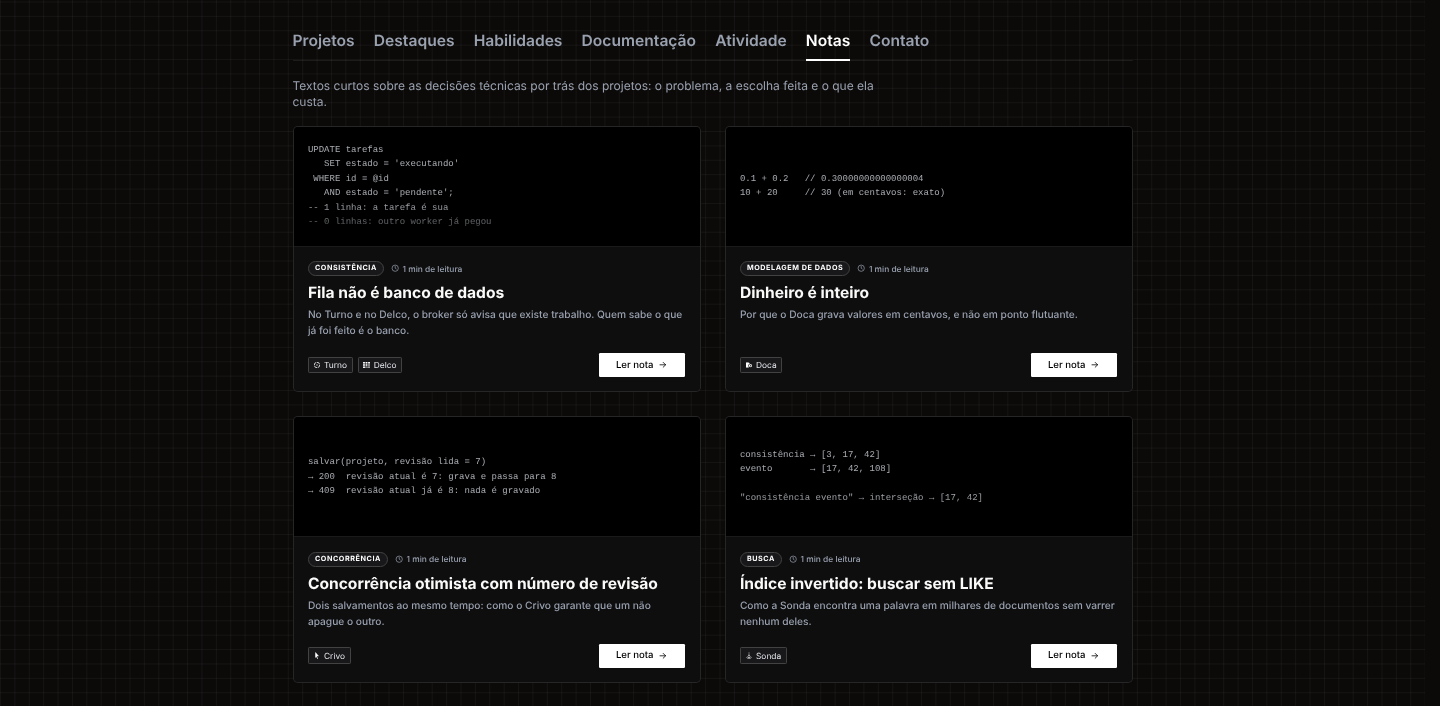
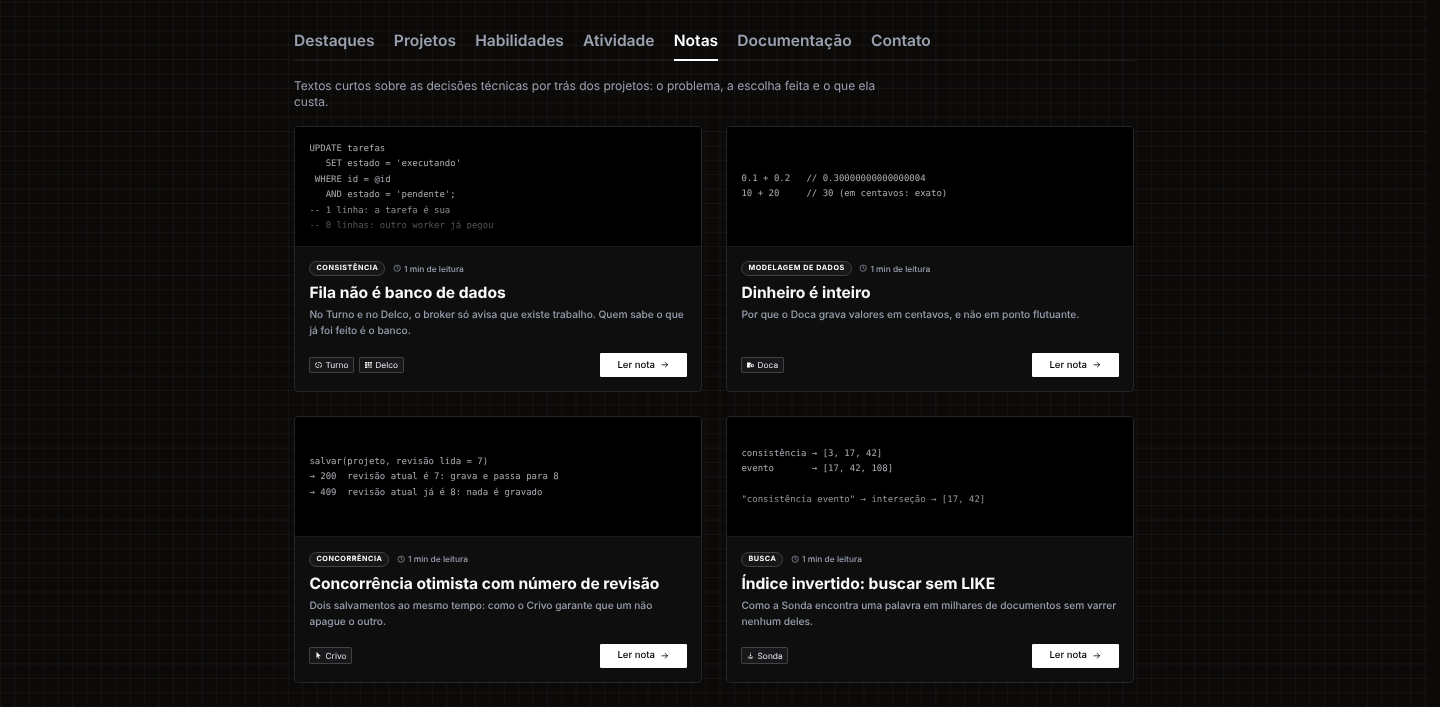
Atualização do README

diff --git a/README.md b/README.md
@@ -6,7 +6,7 @@
 
 <p align="center">
 Meu portfólio técnico: quem eu sou, o que estudo e os sistemas que construí do zero, com foco em arquitetura, escalabilidade e consistência de dados, reunidos em uma página só.<br>
-Feito com HTML5, CSS e JavaScript puros: sem framework, sem build e sem dependências.
+Feito com HTML5, CSS e JavaScript puros: sem framework, sem build e sem dependências. A aba Atividade busca dados ao vivo na API pública do GitHub.
 </p>
 
 <p align="center">
@@ -20,43 +20,50 @@ HTML5 · CSS3 · JavaScript (ES6+) · API do GitHub · Responsivo · Zero depend
 ---
 
 <p align="center">
-  <img src="assets/preview-portfolio.png?v=24" alt="Prévia do portfólio na aba Projetos: apresentação com selo de disponibilidade, terminal, abas, filtros por linguagem e a primeira fileira de projetos">
+  <img src="assets/preview-portfolio.png?v=25" alt="Prévia do portfólio na aba Projetos: apresentação com selo de disponibilidade, terminal do Ravel OS 1.42.0, abas, filtros por linguagem com os 16 projetos e a primeira fileira de cartões">
 </p>
 
 <p align="center"><b>Aba Destaques</b></p>
 
 <p align="center">
-  <img src="assets/preview-portfolio-destaques.png?v=6" alt="Prévia da aba Destaques: atalhos dos seis projetos, cabeçalho do Crivo e a tela principal numa janela">
+  <img src="assets/preview-portfolio-destaques.png?v=7" alt="Prévia da aba Destaques: atalhos dos seis projetos com categoria e versão, cabeçalho do Crivo e o Estúdio de jogo numa janela">
 </p>
 
 <p align="center"><b>Tema claro, na aba Habilidades</b></p>
 
 <p align="center">
-  <img src="assets/preview-portfolio-claro.png?v=28" alt="Prévia do portfólio no tema claro, na aba Habilidades">
+  <img src="assets/preview-portfolio-claro.png?v=29" alt="Prévia do portfólio no tema claro, na aba Habilidades">
+</p>
+
+<p align="center"><b>Aba Atividade</b></p>
+
+<p align="center">
+  <img src="assets/preview-portfolio-atividade.png?v=4" alt="Prévia da aba Atividade: botões de ano, gráfico de contribuições de 2026, cidade de contribuições, linguagens mais usadas e repositórios recentes">
 </p>
 
 <p align="center"><b>Aba Notas</b></p>
 
 <p align="center">
-  <img src="assets/preview-portfolio-notas.png?v=8" alt="Prévia da aba Notas, com as notas em duas colunas e a vitrine de código de cada uma">
+  <img src="assets/preview-portfolio-notas.png?v=9" alt="Prévia da aba Notas, com as notas em duas colunas e a vitrine de código de cada uma">
 </p>
 
 <p align="center"><b>Aba Documentação</b></p>
 
 <p align="center">
-  <img src="assets/preview-portfolio-documentacao.png?v=10" alt="Prévia da aba Documentação, com o diagrama do banco e a decisão de arquitetura dos primeiros projetos">
+  <img src="assets/preview-portfolio-documentacao.png?v=11" alt="Prévia da aba Documentação, com o diagrama do banco e a decisão de arquitetura dos primeiros projetos">
 </p>
 
 ## O que tem na página
 
 - **Topo fixo** com o ícone de computador e o nome **ravel** digitado letra por letra e cursor piscando (um clique volta ao início), que ganha fundo desfocado ao rolar a página. À direita ficam o atalho para o **GitHub**, o botão **Contato**, que abre a aba Contato de qualquer ponto da página, e o botão de tema.
-- **Tema claro e escuro**: o botão redondo no canto superior direito (☀ sol / ☾ lua) troca a página entre o tema escuro (padrão) e o claro, inspirado em **desenho técnico de engenharia**: fundo de papel com quadriculado bem fraco, texto e destaques em grafite, a mesma linguagem dos diagramas dos PDFs. A paleta é Papel `#E8ECEA` (fundo, etiquetas e barra do terminal), Folha `#F6F8F7` (cartões e corpo do terminal), Linha `#B9C4C2` (bordas), Ardósia `#46535A` (textos de apoio, abas fechadas e botões ao passar o mouse) e Grafite `#20282D` (títulos, textos, botões, aba aberta, cursor do título, prompt do terminal, quadriculado, traço dos diagramas na aba Documentação). Os três botões coloridos do terminal continuam como no tema escuro. O tema escuro usa o mesmo quadriculado de engenharia no fundo, em linhas brancas bem fracas. A escolha fica salva no navegador e volta na próxima visita, sem piscar o tema errado ao carregar.
+- **Tema claro e escuro**: o botão redondo no canto superior direito (☀ sol / ☾ lua) troca a página entre o tema escuro (padrão) e o claro, inspirado em **desenho técnico de engenharia**: fundo de papel com quadriculado bem fraco, texto e destaques em grafite, a mesma linguagem dos diagramas dos PDFs. A paleta é Papel `#E8ECEA` (fundo, etiquetas e barra do terminal), Folha `#F6F8F7` (cartões e corpo do terminal), Linha `#B9C4C2` (bordas), Ardósia `#46535A` (textos de apoio, abas fechadas e botões ao passar o mouse) e Grafite `#20282D` (títulos, textos, botões, aba aberta, cursor do título, prompt do terminal, quadriculado, traço dos diagramas na aba Documentação e barras de linguagens). O gráfico de contribuições e a cidade da aba Atividade vão do papel ao grafite, passando por Linha e Ardósia. Os três botões coloridos do terminal continuam como no tema escuro. O tema escuro usa o mesmo quadriculado de engenharia no fundo, em linhas brancas bem fracas. A escolha fica salva no navegador e volta na próxima visita, sem piscar o tema errado ao carregar.
 - **Apresentação** pensada para quem está contratando: o selo **Disponível para novas oportunidades** (com um pulso curto no ponto verde ao carregar), o nome em tamanho grande, o cargo (*Engenheiro de Software*), um parágrafo sobre o que eu construo, os botões **Ver projetos** e **Entrar em contato** e, embaixo, o GitHub, o e-mail (um clique copia o endereço e o botão mostra *E-mail copiado*) e a localização.
 - **Terminal `root@ravel:~$`** com o `ravel --info` do Ravel OS: o que priorizo e as áreas em que atuo, com base nos meus projetos. A primeira linha mostra a versão atual do portfólio (*Ravel OS [Version 1.42.0]*), a mesma do arquivo `VERSION`.
 - **Sete abas: Destaques, Projetos, Habilidades, Atividade, Notas, Documentação e Contato**: as seções ficam em abas separadas na mesma página, com sublinhado animado na aba ativa. Ao rolar a página, a fileira de abas **fica presa logo abaixo do topo**, com o mesmo fundo desfocado, e trocar de aba lá embaixo leva ao começo da nova aba. Dá para trocar com o mouse ou pelas setas do teclado, e a página sempre abre na aba Destaques, a não ser que o link já aponte para outra: `ravelroot.github.io/#contato`, `#destaques`, `#habilidades` e assim por diante abrem direto na aba (o endereço volta ao normal em seguida). No celular, a fileira de abas rola para o lado, a aba ativa sempre fica à vista e a borda some aos poucos do lado em que ainda há abas.
-  - **Projetos** em cartões com **vitrine no estilo do terminal**: o caminho do repositório no GitHub, a linguagem principal e o ícone do projeto em tamanho grande sobre um pontilhado. Abaixo vêm a categoria em destaque (por exemplo, *Pagamentos e checkout*), o nome, a descrição, as etiquetas de tecnologias e os botões **Código no GitHub** (repositório) e **Manual técnico** (PDF, nos projetos que têm). São meus principais repositórios públicos, de pagamentos e microsserviços a um banco de dados em C++. Os projetos que também estão na aba Destaques (Crivo, Grafo, Nexo, Talos, Bento e Turno) trazem, ao lado da categoria, a etiqueta **Estudo de caso**, que leva direto ao projeto lá; o Crivo e o Grafo, que têm versão no navegador, abrem também com o botão **Abrir demo**. Acima da grade ficam os **filtros por linguagem** (Todos, Python, TypeScript, JavaScript, Java, C#, C++, Go, C e Rust, com o número de projetos em cada um), montados sozinhos a partir das tecnologias; ao filtrar, a etiqueta da linguagem escolhida fica realçada em cada cartão e o contador mostra quantos projetos aparecem. Os cartões **entram um a um** quando surgem na tela (e de novo a cada filtro). Ao passar o mouse, uma luz suave acompanha o cursor, o pontilhado se acende em volta dele, o ícone ganha um leve brilho, e um cursor pisca ao lado do repositório; o cartão não cresce, para o texto continuar nítido. Tudo respeita `prefers-reduced-motion`.
+  - **Projetos** em cartões com **vitrine no estilo do terminal**: o caminho do repositório no GitHub, a linguagem principal e o ícone do projeto em tamanho grande sobre um pontilhado. Abaixo vêm a categoria em destaque (por exemplo, *Pagamentos e checkout*), o nome, a descrição, as etiquetas de tecnologias e os botões **Código no GitHub** (repositório) e **Manual técnico** (PDF, nos projetos que têm). São meus principais repositórios públicos, de pagamentos e microsserviços a um banco de dados em C++. Os projetos que também estão na aba Destaques (Crivo, Grafo, Nexo, Talos, Bento e Turno) trazem, ao lado da categoria, a etiqueta **Estudo de caso**, que leva direto ao projeto lá; o Crivo e o Grafo, que têm versão no navegador, abrem também com o botão **Abrir demo**. Acima da grade ficam os **filtros por linguagem** (Todos, Python, TypeScript, Java, JavaScript, C#, C++, Go, C e Rust, com o número de projetos em cada um), montados sozinhos a partir das tecnologias; ao filtrar, a etiqueta da linguagem escolhida fica realçada em cada cartão e o contador mostra quantos projetos aparecem. Os cartões **entram um a um** quando surgem na tela (e de novo a cada filtro). Ao passar o mouse, uma luz suave acompanha o cursor, o pontilhado se acende em volta dele, o ícone ganha um leve brilho, e um cursor pisca ao lado do repositório; o cartão não cresce, para o texto continuar nítido. Tudo respeita `prefers-reduced-motion`.
   - **Destaques**: o **Crivo**, o **Grafo**, o **Nexo**, o **Talos**, o **Bento** e o **Turno** apresentados em detalhe, um depois do outro. No topo, um atalho para cada um (ícone, categoria e versão) rola até ele, em três colunas no computador e duas no tablet (quando sobra um, ele ocupa a fileira inteira). Cada projeto abre com a posição (*Destaque 01 / 06*), a categoria, a versão, o nome em tamanho grande, uma frase que resume o projeto e os botões **Abrir no navegador** (no Crivo e no Grafo, que têm versão no GitHub Pages), **Código no GitHub**, **Manual técnico** e **Arquitetura do BD** (quando o projeto tem o PDF do banco). Depois vêm: a **tela principal numa janela** com a barra do terminal e o endereço do projeto (a versão online, o servidor local ou o instalador do Windows), que **acompanha o tema da página** (tela escura no tema escuro, clara no claro); **quatro números** (por exemplo, *301 testes, todos passando*, *37 KB de núcleo em WebAssembly* e *600 mil iterações de PBKDF2 por senha*); **A ideia**, em três parágrafos, ao lado das **tecnologias** agrupadas; uma **galeria** com legenda (nove telas no Talos e no Bento, onze no Nexo, catorze no Grafo, quinze no Crivo e cinco no Turno); **Por dentro**, com as decisões de engenharia numeradas (oito no Crivo, no Grafo, no Nexo e no Talos e seis no Bento e no Turno) (algumas com um trecho no estilo do terminal, como o RLE do Crivo, os modelos do Grafo em duas linhas, os cortes de relevância e o streaming do Nexo, a matriz de prioridade e a mescla do Talos, o LISTEN/NOTIFY do Bento e o token de despacho do Turno); a **arquitetura** desenhada num terminal; e a tabela de **testes e verificações** com os resultados da última rodada de cada projeto. Um clique na tela principal ou em qualquer foto abre o **visualizador**: a imagem quase em tela cheia, com legenda, posição (*04 / 10*), botões e setas do teclado para passar (ele dá a volta no fim), deslize no celular, Esc ou clique fora para fechar e o foco de volta na foto. A aba termina com **Seis projetos, as mesmas regras** (começam com dois cliques, testados a cada push, fechados por padrão e feitos para quem chega), a contagem dos projetos que ficaram de fora e um botão que volta para a aba Projetos. O Bento, que não está na aba Documentação, leva os PDFs no próprio destaque. Os blocos sobem e aparecem conforme a página rola, e tudo respeita `prefers-reduced-motion`.
   - **Habilidades** organizadas por área (Front-end, Back-end, Bancos de Dados, IA & LLMs e Ferramentas), em cartões com um ícone para cada área, o número de itens e etiquetas agrupadas. IA & LLMs se divide em Arquitetura RAG e Modelos e protocolos; Ferramentas, em DevOps e infraestrutura, APIs, Desenvolvimento e Produtividade. Qualquer etiqueta se destaca ao passar o mouse (borda e texto acesos, com o cursor de clique), sem levar a outra aba. Acima dos cartões, os botões **Todas** e **Usadas nos projetos** deixam as demais etiquetas apagadas. Os cartões entram um a um ao aparecer na tela, as etiquetas acendem em cascata e uma luz suave acompanha o mouse.
+  - **Atividade**: dados ao vivo do GitHub, buscados só quando a aba é aberta. O cartão **Contribuições** abre no **ano atual**, de 1º de janeiro até hoje, e tem um botão para cada ano desde **2016** (**2026 · 2025 · … · 2016**; um botão novo aparece sozinho a cada virada de ano). Os anos sem nenhum commit aparecem com o calendário inteiro vazio, e os anos anteriores à criação da conta nem gastam consulta à API. Para cada ano, mostra o total de contribuições, os dias com contribuições, a maior sequência de dias seguidos e o número de repositórios públicos, com o **gráfico de contribuições** (o mesmo calendário do perfil, em tons neutros que acompanham o tema); no ano em andamento, os dias que ainda não chegaram aparecem vazados, a nota abaixo do gráfico diz o período exato e, com a aba aberta, o ano atual se atualiza sozinho a cada 5 minutos. Logo abaixo, a **cidade de contribuições** desenha o mesmo ano em 3D isométrico: um prédio por dia, mais alto quanto mais contribuições, com janelas acesas nos dias mais fortes e o dia mais ativo marcado no alto do prédio. Ao lado ficam o total, os dias ativos, o dia mais ativo, a sequência atual (*Sequência no fim do ano* nos anos que já acabaram), a maior sequência e o mês mais ativo, e a cidade muda junto com o botão de ano. Por fim, as **linguagens mais usadas** pela soma do código de todos os repositórios (as oito maiores e *Outras*) e os **cinco repositórios que receberam commits por último**, com o ícone e o nome do projeto quando ele está no portfólio. Passar o mouse sobre um dia, um prédio ou uma linguagem mostra os detalhes, e o rodapé diz a hora da última atualização.
   - **Notas**: textos curtos sobre as decisões técnicas por trás dos projetos (o problema, a escolha feita e o que ela custa), em **duas colunas** no computador e uma no celular. Cada cartão abre com uma vitrine no estilo do terminal, com o bloco de código da própria nota (ou uma frase dela, quando a nota não tem código), seguida do tema em destaque, do tempo de leitura (calculado pelo número de palavras), do título, de um resumo e das etiquetas dos projetos citados, com ícone e link para o repositório. Ao passar o mouse, uma luz suave acompanha o cursor, o código sobe um pouco e a seta do botão avança. Quando o número de notas é ímpar, a última ocupa a fileira inteira, com a vitrine ao lado do texto. O botão **Ler nota** (ou um clique na vitrine) abre a nota inteira num painel por cima da página, com a posição dela no topo (por exemplo, 07 / 08), com blocos de código quando ajudam a explicar e os botões **Anterior** e **Próxima** para seguir lendo. O painel fecha no X, com Esc ou com um clique fora dele, e o foco volta ao cartão da última nota lida. As notas atuais: *Fila não é banco de dados* (Turno e Delco), *Dinheiro é inteiro* (Doca), *Concorrência otimista com número de revisão* (Crivo), *Índice invertido: buscar sem LIKE* (Sonda), *RAG: a resposta depende da busca* (Nexo), *Um banco por serviço* (Argo), *Embaralhar sem viés* (Grimório) e *Boundary tags: liberar memória em O(1)* (Favo).
   - **Documentação**: um cartão por projeto com a miniatura do diagrama do banco (tirada do próprio PDF, em traço branco no tema escuro e grafite no claro), a decisão de arquitetura que mais pesou, etiquetas com os números principais e botões que abrem o **Manual técnico** e a **Arquitetura do BD** em PDF no GitHub. A miniatura também abre o PDF. O Talos, que ainda não tem o PDF do banco, mostra o diagrama de relacionamentos da área de atendimento (as tabelas em volta de `pyh_ticket`), desenhado a partir do diagrama Mermaid de `docs/banco-de-dados.md` do próprio repositório.
   - **Contato**: formulário com **nome**, **sobrenome**, **e-mail para resposta**, **motivo do contato** (Proposta de trabalho, Projeto freelance, Dúvida sobre um projeto, Parceria ou colaboração ou Outro assunto) e **mensagem** (até 3.000 caracteres, com contador). Ao enviar, a mensagem chega no e-mail **ravelroot@outlook.com** pelo [FormSubmit](https://formsubmit.co), sem servidor próprio; o e-mail recebido traz o motivo no assunto, e responder a ele já vai para o endereço de quem escreveu. Enquanto envia, o botão mostra *Enviando…*; depois, o formulário dá lugar a uma confirmação com o botão **Enviar outra mensagem**. Se o envio falhar, aparece um link `mailto:` com a mensagem já preenchida. Um campo invisível barra robôs. Ao lado do formulário (embaixo, no celular), o cartão **Contato direto** traz o e-mail com botão **Copiar**, o GitHub e a localização com o fuso (UTC−3), para quem prefere escrever do próprio e-mail. No celular, os campos usam 16 px, para o iPhone não ampliar a página ao tocar neles.
@@ -67,6 +74,20 @@ HTML5 · CSS3 · JavaScript (ES6+) · API do GitHub · Responsivo · Zero depend
 - **Prévia ao compartilhar o link**: título, descrição e a imagem `assets/compartilhar.png` (1200 × 630) aparecem no WhatsApp, LinkedIn, Discord e afins; a página também traz os dados de pessoa (nome, cargo, GitHub e cidade) em JSON-LD, para buscadores.
 - **Teclado e leitores de tela**: o primeiro Tab mostra **Pular para o conteúdo**, o nome é o título principal da página (`h1`) e os avisos (como *E-mail copiado*) são lidos em voz alta.
 - **Acessível a quem prefere menos movimento**: com `prefers-reduced-motion`, as animações são desligadas.
+
+## De onde vêm os dados da aba Atividade
+
+| Dado | Fonte |
+| --- | --- |
+| Perfil, repositórios e linguagens | [API pública do GitHub](https://docs.github.com/rest) (`/users/ravelroot`, `/users/ravelroot/repos` e `/repos/.../languages`) |
+| Gráfico e cidade de contribuições | [github-contributions-api.jogruber.de](https://github.com/grubersjoe/github-contributions-api), que lê o calendário do perfil, um ano inteiro por vez (`?y=2026`) |
+| Outros anos (botões de ano) | O mesmo serviço, com `?y=2025`, `?y=2024` e assim por diante até 2016; os anos que já acabaram ficam guardados por 24 horas, e os anteriores à criação da conta são montados vazios, sem consulta |
+| Plano B do gráfico | Eventos públicos dos últimos 90 dias (`/users/ravelroot/events/public`), usados se o calendário não responder |
+
+- Não precisa de token. A API do GitHub permite 60 consultas por hora sem login. A primeira visita do dia gasta cerca de 20 (uma por repositório para contar as linguagens); depois disso, o perfil e os repositórios ficam guardados no navegador por **30 minutos**, a conta das linguagens por **24 horas** (refeita antes só se a lista de repositórios mudar) e o ano atual por **5 minutos**, então cada atualização gasta só 2.
+- Se o GitHub limitar as consultas, a aba mostra os últimos dados salvos e avisa o horário. Sem nenhum dado salvo, aparece um cartão com link para o perfil.
+- Os repositórios `ravelroot.github.io` e `ravelroot` ficam de fora da lista de repositórios recentes.
+- O gráfico de contribuições conta os commits feitos com o e-mail da conta, inclusive os da rotina diária em `.github/workflows/diario.yml`.
 
 ## Projetos apresentados
 
@@ -84,6 +105,10 @@ HTML5 · CSS3 · JavaScript (ES6+) · API do GitHub · Responsivo · Zero depend
 | [**Lume**](https://github.com/ravelroot/Document-Library-Desktop) | Lume é uma biblioteca de PDFs e DOCX em Java 21 + Spring Boot 4, com capas automáticas (PDFBox), descrição por IA, leitor próprio, estantes, coleções e busca em texto completo (SQLite FTS5). Um único Lume.exe portátil, com o Java embutido. | Java 21 · Spring Boot 4 · SQLite + FTS5 · Apache PDFBox · pdf.js · Playwright |
 | [**Grafo**](https://github.com/ravelroot/Collaborative-Design-and-Diagram-Editor) | Grafo é um editor colaborativo de design e diagramas no navegador, em JavaScript com PixiJS (WebGL2 e WebGPU) e núcleo geométrico em C++ compilado para WebAssembly. Frames, auto layout, componentes, UML, ER e BPMN, 63 modelos e 46 padrões prontos, protótipo clicável e edição em tempo real com Yjs, servidor em Rust, PostgreSQL, Redis e NATS. | JavaScript · PixiJS 8 · C++17 → WebAssembly · Rust (Axum + Tokio) · Yjs/Yrs · PostgreSQL 17 · Redis 7 · NATS JetStream · Go + WebView2 · Docker |
 | [**Favo**](https://github.com/ravelroot/Custom-Memory-Allocator) | Favo é um alocador de memória escrito do zero em C11 que substitui o malloc e o free do sistema: pede memória ao kernel com sbrk e mmap (VirtualAlloc no Windows), alinha blocos a 16 bytes, aloca por First-Fit, Next-Fit ou Best-Fit em árvore rubro-negra e funde vizinhos livres. Funciona via LD_PRELOAD, com API em FastAPI e painel web do heap ao vivo. | C11 · sbrk e mmap · CMake · LD_PRELOAD · Python 3.13 · FastAPI · WebSocket · SQLite · TypeScript · Vite · Docker |
+| [**Bento**](https://github.com/ravelroot/Data-Driven-Admin-Panel) | Bento é um painel administrativo SaaS em bento grid feito com Tailwind CSS v4: modo claro/escuro salvo no localStorage, KPIs com tendência, gráficos ApexCharts, tabelas com ordenação, busca, paginação e visões salvas, e gavetas laterais com notas internas. API em TypeScript (Fastify) com PostgreSQL, JWT, permissões por papel, alertas em tempo real (SSE) e relatórios em CSV e PDF. | TypeScript · Tailwind CSS 4 · ApexCharts · Node.js 22 · Fastify 5 · Zod · PostgreSQL 18 ou PGlite · PDFKit · Docker |
+| [**Apogeu**](https://github.com/ravelroot/Multi-Agent-Orchestration-System) | Apogeu é um orquestrador de agentes de IA em LangGraph: um supervisor coordena pesquisador, redator e revisor que colaboram para produzir artigos com fontes. Function calling, gestão de contexto, engenharia de prompts, aprovação humana do plano e streaming ao vivo numa interface Next.js. Roda com OpenAI, Anthropic, Ollama ou modo demonstração. | Python 3.11+ · LangGraph · LangChain · FastAPI · SQLite · Next.js 16 · React 19 · TypeScript · Go + WebView2 |
+| [**Arca**](https://github.com/ravelroot/Persistent-Key-Value-Server) | Arca é um banco de dados em C++20 com LSM-Tree: WAL com group commit, memtable em skip list, SSTables com filtro de Bloom e compactação em níveis. Servidor TCP assíncrono compatível com o protocolo do Redis, tabelas com SQL, snapshots MVCC, API REST em Go e painel web em React. | C++20 · CMake · RESP2 · Go 1.24 · React 18 · TypeScript · Vite · Prometheus · Docker |
+| [**Leme**](https://github.com/ravelroot/Distributed-Key-Value-CLI) | Leme é uma CLI em Go e Cobra para operar um cluster distribuído de armazenamento chave-valor: modo interativo (REPL com histórico e autocompletar) e direto para scripts, roteamento por hash consistente, réplicas com quórum, protocolo binário sobre TCP com TLS, nós de referência, console web e saída em tabela ou JSON. | Go 1.24 · Cobra · TCP com protocolo binário · TLS 1.2+ e mTLS · JavaScript · OpenAPI 3.1 · Kubernetes · Prometheus · Docker |
 
 ## Como rodar
 
@@ -92,6 +117,8 @@ Não há nada para instalar.
 **Windows:** dê dois cliques em `visualizar.bat`. A página abre no seu navegador padrão.
 
 **Qualquer sistema:** abra o arquivo `index.html` no navegador.
+
+A aba Atividade precisa de internet para buscar os dados no GitHub; o resto da página funciona offline.
 
 Se preferir servir por HTTP (útil para testar como ficará publicado):
 
@@ -127,10 +154,12 @@ O mesmo e-mail de ativação traz um código aleatório que pode substituir o en
 | Quadriculado do fundo | `css/estilo.css`, na variável `--grade` (uma vez em cada tema) |
 | Decisão de arquitetura, etiquetas e links dos PDFs de cada projeto | `js/documentacao.js`, no vetor `DOCUMENTACAO` |
 | Notas (tema, título, resumo, texto, frase da vitrine e projetos citados) | `js/notas.js`, no vetor `NOTAS` |
-| Aba Destaques (projetos, frase, números, textos, tecnologias, fotos e legendas, decisões de engenharia, arquitetura, testes e o bloco final) | `js/destaques.js`, nos vetores `DESTAQUES` e `DESTAQUES_EM_COMUM`; o `titulo` de cada destaque precisa ser igual ao de `js/projetos.js` e de `js/documentacao.js`, de onde vêm o ícone, a categoria, o repositório e os PDFs; um projeto que não está nessas abas leva esses dados no próprio destaque, em `projeto` (`categoria`, `icone` e `link`) e `documentos` (`manual` e `banco`), como o Bento faz com os PDFs, já que não está na aba Documentação. O endereço da barra da janela fica em `endereco`, e `online` é opcional |
+| Aba Destaques (projetos, frase, números, textos, tecnologias, fotos e legendas, decisões de engenharia, arquitetura, testes e o bloco final) | `js/destaques.js`, nos vetores `DESTAQUES` e `DESTAQUES_EM_COMUM`; o `titulo` de cada destaque precisa ser igual ao de `js/projetos.js` e de `js/documentacao.js`, de onde vêm o ícone, a categoria, o repositório e os PDFs; um projeto que não está nessas abas leva esses dados no próprio destaque, em `projeto` (`categoria`, `icone` e `link`) e `documentos` (`manual` e `banco`), como o Bento faz com os PDFs, já que não está na aba Documentação. O endereço da barra da janela fica em `endereco`, e `online` é opcional. Os ícones dos itens do bloco final (`tela`, `build`, `escudo` e `livro`) ficam em `ICONES_AREAS`, em `js/main.js` |
 | Fotos da aba Destaques | `assets/destaques/`, uma pasta por projeto (`crivo/`, `grafo/`, `nexo/`, `talos/`, `bento/` e `turno/`): as telas em WebP em 16:10 (1440 × 900 ou 1600 × 1000, usadas na capa e no visualizador) e, em `mini/`, as miniaturas de 800 × 500 da galeria, todas convertidas das imagens de `docs/images/` de cada repositório (a capa escura do Crivo é a mesma tela do Estúdio de jogo da capa clara, capturada no tema escuro). As telas de 1440 × 960 do Nexo, do Bento e do Turno foram reduzidas para 900 de altura e completadas nas laterais com a cor do fundo do próprio app, sem cortar nada; a tela de contas do Nexo é um recorte de 1440 × 900 da página Sistema e conta, que é mais alta |
 | Luz que segue o mouse nos cartões de projeto e de nota, brilho do ícone grande e fundo escurecido atrás do leitor | `css/estilo.css`, nas variáveis `--luz`, `--brilho-icone` e `--fundo-leitor` (uma vez em cada tema) |
 | Miniaturas dos diagramas | `assets/documentacao/` (PNG branco com fundo transparente, 1100 × 420) |
+| Usuário do GitHub, tempos de cache, quantos repositórios e linguagens mostrar, repositórios escondidos e ano inicial dos botões de ano | `js/atividade.js`, no objeto `ATIVIDADE` (`anoInicial`, hoje 2016: o último botão de ano e o começo do calendário mais antigo; `reposOcultos` lista os repositórios que não entram em *Repositórios recentes*) |
+| Tons do gráfico de contribuições, da cidade e das barras de linguagens | `css/estilo.css`, nas variáveis `--nivel-0` a `--nivel-4`, `--barra` e `--barra-outras` (uma vez em cada tema) |
 | Cores, fontes, espaçamentos e animações | `css/estilo.css` (variáveis em `:root`) |
 | Cores do tema claro | `css/estilo.css`, no bloco `:root[data-tema="claro"]` |
 | Botão de tema (ícones e textos) | `index.html`, no `#botao-tema`, e `js/main.js`, em `alternarTema()` |
@@ -200,6 +229,7 @@ Portfolio/
 │   ├── projetos.js     dados dos projetos
 │   ├── habilidades.js  habilidades por área
 │   ├── documentacao.js decisão de arquitetura e PDFs de cada projeto
+│   ├── atividade.js    busca os dados do GitHub e monta a aba Atividade: contribuições por ano, cidade, linguagens e repositórios recentes
 │   ├── notas.js        textos da aba Notas
 │   ├── destaques.js    Crivo, Grafo, Nexo, Talos, Bento e Turno em detalhe: textos, números, fotos, arquitetura e testes da aba Destaques
 │   ├── contato.js      envia o formulário da aba Contato para o e-mail pelo FormSubmit
@@ -216,6 +246,7 @@ Portfolio/
 │   ├── preview-portfolio-claro.png  prévia do tema claro usada neste README
 │   ├── preview-portfolio-documentacao.png  prévia da aba Documentação
 │   ├── preview-portfolio-destaques.png     prévia da aba Destaques
+│   ├── preview-portfolio-atividade.png     prévia da aba Atividade
 │   └── preview-portfolio-notas.png         prévia da aba Notas
 ├── .github/
 │   ├── workflows/diario.yml  5 commits automáticos por dia, com rodada de reserva
